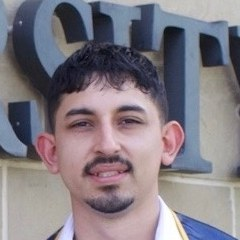
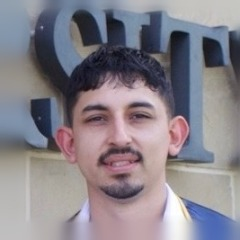
Faint brand glow around page edges; recenter and zoom out header photo

diff --git a/tools/template.html b/tools/template.html
@@ -32,6 +32,9 @@ html{scroll-behavior:smooth;-webkit-text-size-adjust:100%}
 body{background:var(--bg);color:var(--text);font-family:Manrope,system-ui,-apple-system,sans-serif;line-height:1.5;
   padding-bottom:calc(84px + env(safe-area-inset-bottom));overflow-x:hidden}
 img,video{display:block;max-width:100%}
+/* faint brand glow around the screen edges */
+body:after{content:"";position:fixed;inset:0;z-index:30;pointer-events:none;
+  box-shadow:inset 0 0 70px -10px rgba(var(--brand-rgb),.28),inset 0 0 18px -6px rgba(var(--brand-rgb),.22)}
 a{color:inherit}
 .wrap{max-width:520px;margin:0 auto;padding:0 20px}
 section{padding:60px 0;position:relative}
@@ -139,7 +142,7 @@ p strong{color:var(--text);font-weight:700}
 /* book */
 .book{background:linear-gradient(180deg,rgba(var(--brand-rgb),.10),var(--bg) 45%);border-top:2px solid var(--brand)}
 .me{display:flex;gap:14px;align-items:center;margin:18px 0 18px}
-.me img{width:64px;height:64px;border-radius:50%;object-fit:cover;border:2px solid var(--brand)}
+.me img{width:64px;height:64px;border-radius:50%;object-fit:cover;border:2px solid var(--brand);box-shadow:0 0 16px -2px rgba(var(--brand-rgb),.45)}
 .me b{display:block;font-size:17px}
 .me span{font-size:14px;color:var(--muted)}
 .cal{background:#fff;border-radius:18px;overflow:hidden;min-height:640px;border:2px solid var(--edge)}
